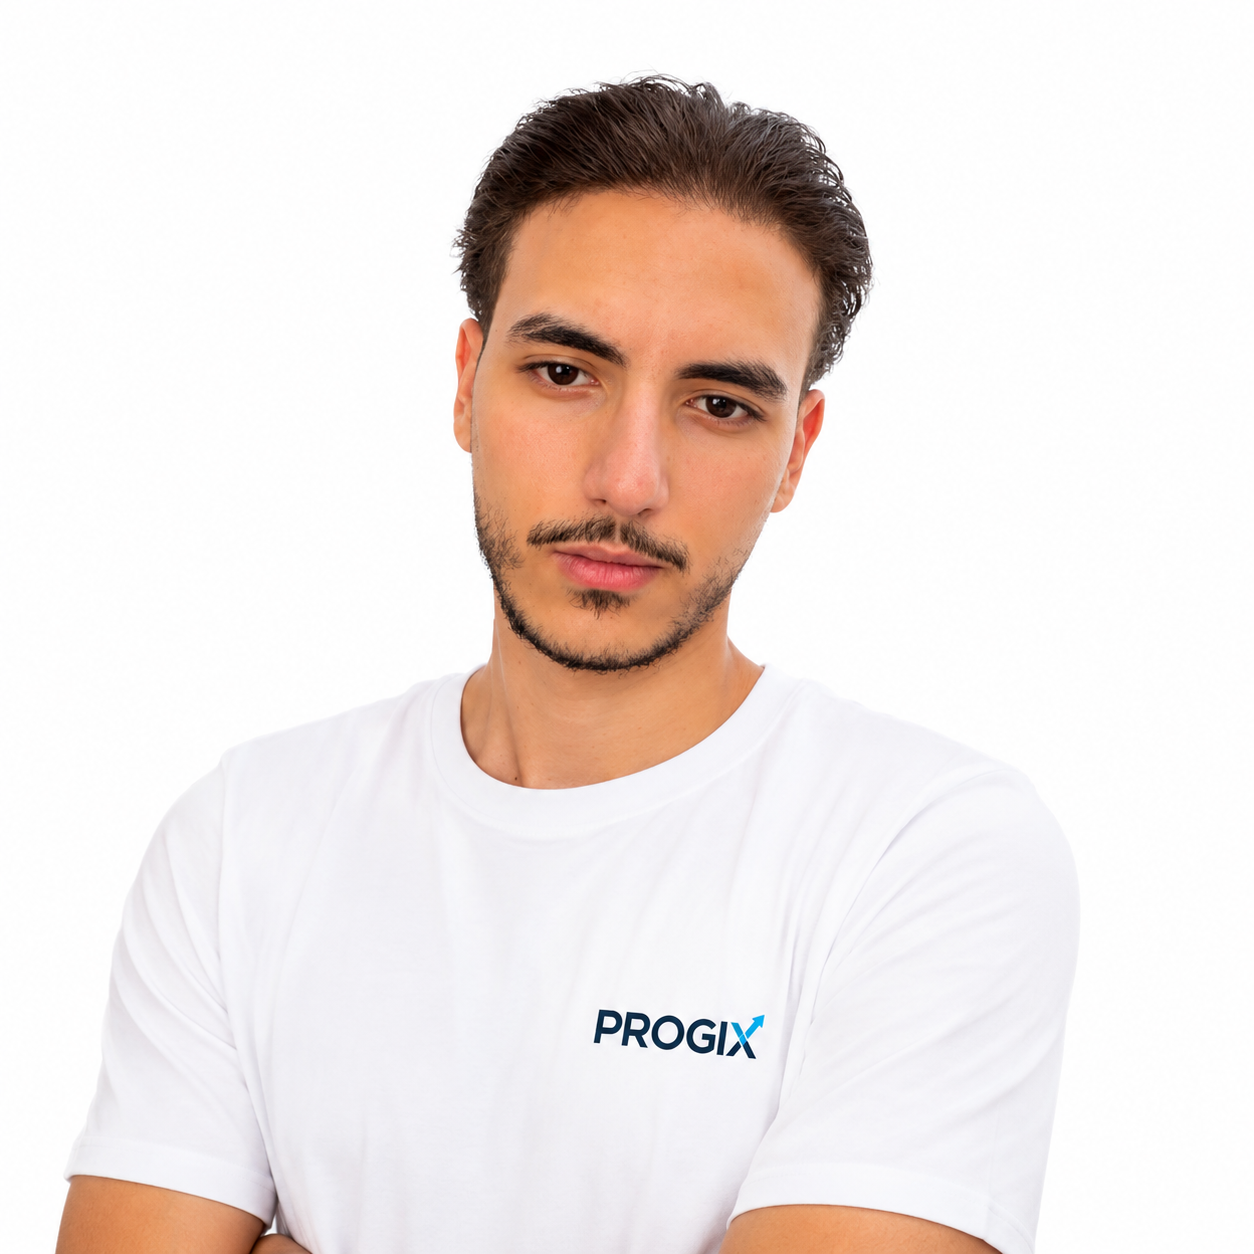
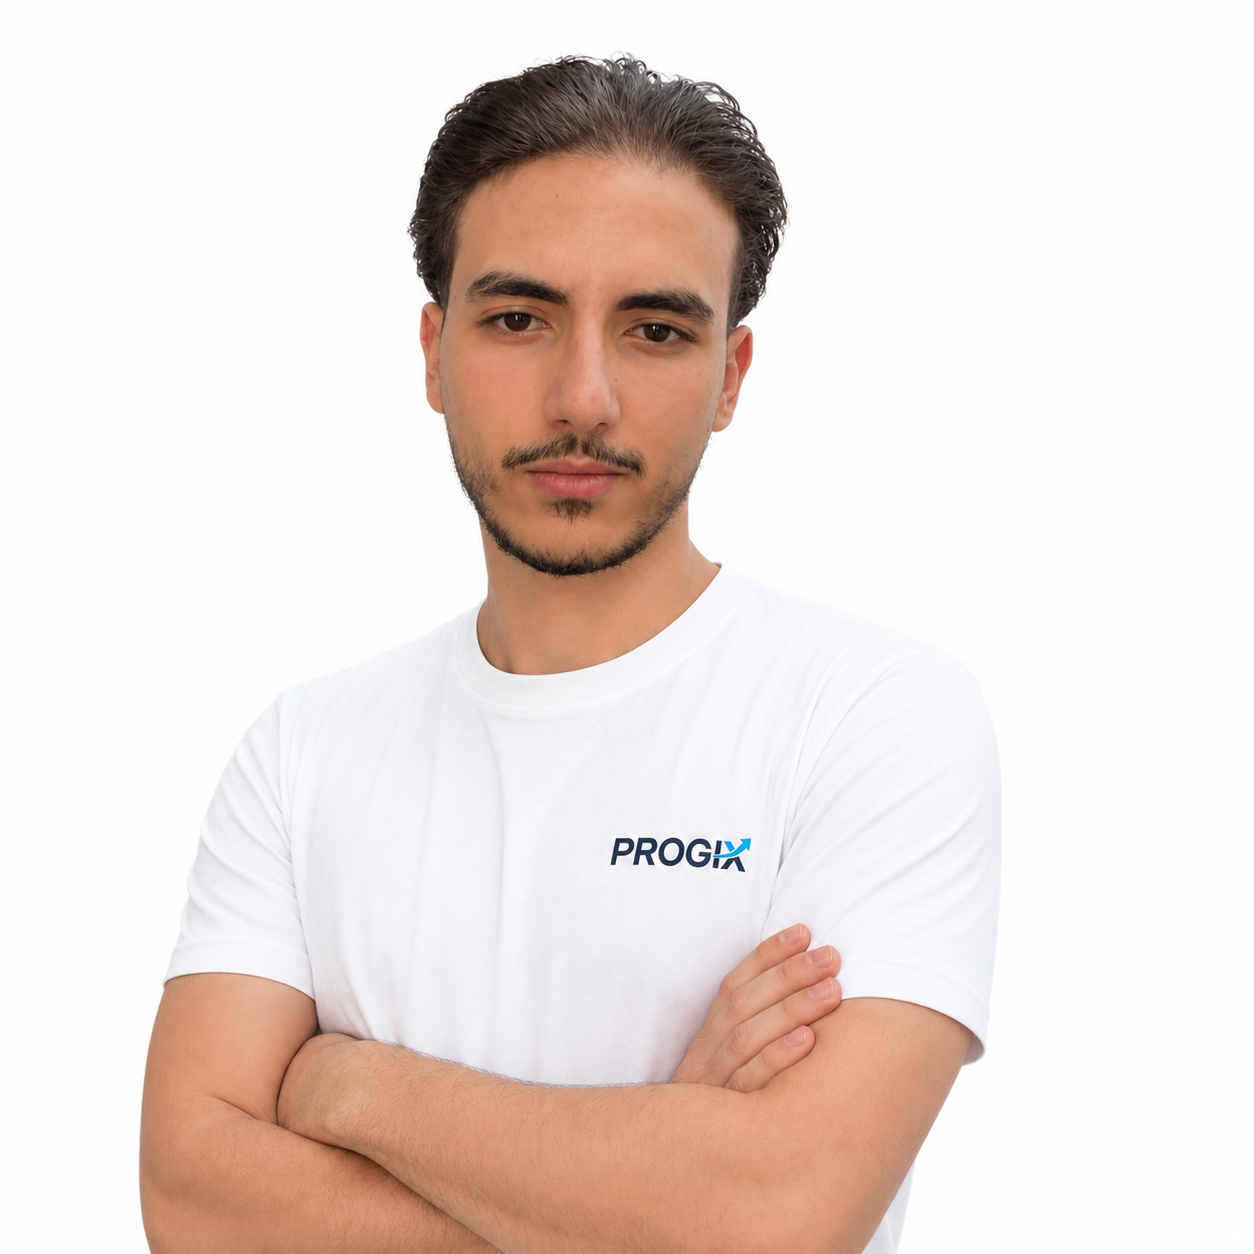
feat: update sales consultant role and description in team section

Changed region(s): [[0.311, 0.0311, 0.7153, 0.6531], [0.0311, 0.6842, 0.8086, 1.0], [0.4665, 0.6531, 0.5909, 0.7153]]

diff --git a/src/features/devis/ui/cinematic/accueil-cinematic.tsx b/src/features/devis/ui/cinematic/accueil-cinematic.tsx
@@ -1,4 +1,4 @@
-/* eslint-disable @next/next/no-img-element */
+/* eslint-disable @next/next/no-img-element */
 import type { ReactNode } from "react";
 import { SmoothScroll } from "./smooth-scroll";
 import { CinematicHeader } from "./cinematic-header";
@@ -120,10 +120,10 @@ const leaders: ReadonlyArray<Leader> = [
 type Extra = { label: string; name: string; desc: string; img?: string };
 const extras: ReadonlyArray<Extra> = [
   {
-    label: "Consultant",
+    label: "Responsable des ventes",
     name: "Aurelio Gustave",
     img: "/team/aurelio.jpg",
-    desc: "Conseil stratÃ©gique et pilotage de projets complexes.",
+    desc: "Développement commercial et relation client.",
   },
   {
     label: "Marketing",

diff --git a/src/features/devis/ui/accueil-document.tsx b/src/features/devis/ui/accueil-document.tsx
@@ -43,10 +43,10 @@ const leaders: ReadonlyArray<Leader> = [
 type Extra = { label: string; name: string; desc: string; img?: string };
 const extras: ReadonlyArray<Extra> = [
   {
-    label: "Consultant",
+    label: "Responsable des ventes",
     name: "Aurelio Gustave",
     img: "/team/aurelio.jpg",
-    desc: "Conseil stratégique et pilotage de projets complexes.",
+    desc: "Développement commercial et relation client.",
   },
   {
     label: "Marketing",